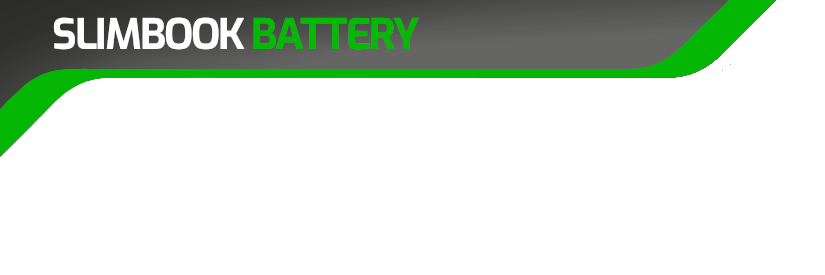
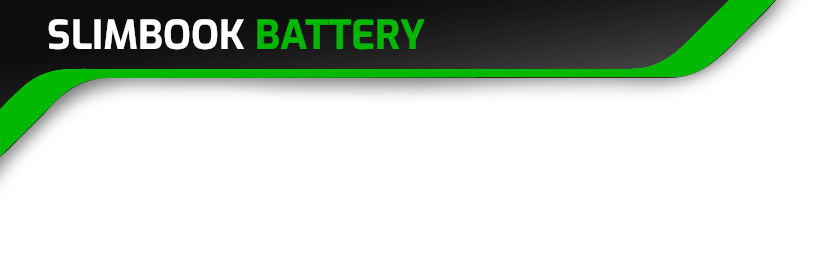
Style fixes

Changed region(s): [[0.0, 0.0, 0.9697, 0.64]]

diff --git a/src/css/system-style.css b/src/css/system-style.css
@@ -22,7 +22,7 @@ stack>grid>grid, scrolledwindow grid{
 window notebook{
     margin-left: 55px;
     margin-right: 55px;
-    margin-top: 35px;
+    margin-top: 45px;
     margin-bottom: 0px;
 }
 #smaller_label label {

diff --git a/src/css/original-style.css b/src/css/original-style.css
@@ -22,7 +22,7 @@ stack>grid>grid, scrolledwindow grid{
 window notebook{
     margin-left: 55px;
     margin-right: 55px;
-    margin-top: 30px;
+    margin-top: 40px;
     margin-bottom: 0px;
 }
 

diff --git a/src/splash.py b/src/splash.py
@@ -43,8 +43,8 @@ class Splash(Gtk.Window):
             height=300
         
         else:
-            width=400
-            height=400
+            width=500
+            height=500
 
         # set content for the spash window
         pix_buffer = GdkPixbuf.Pixbuf.new_from_file_at_scale(
